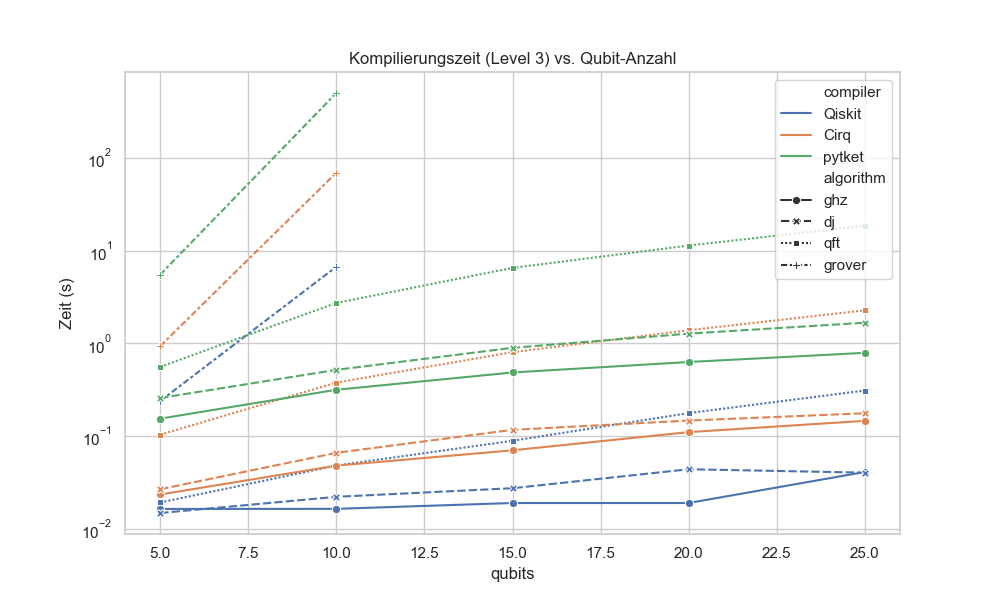
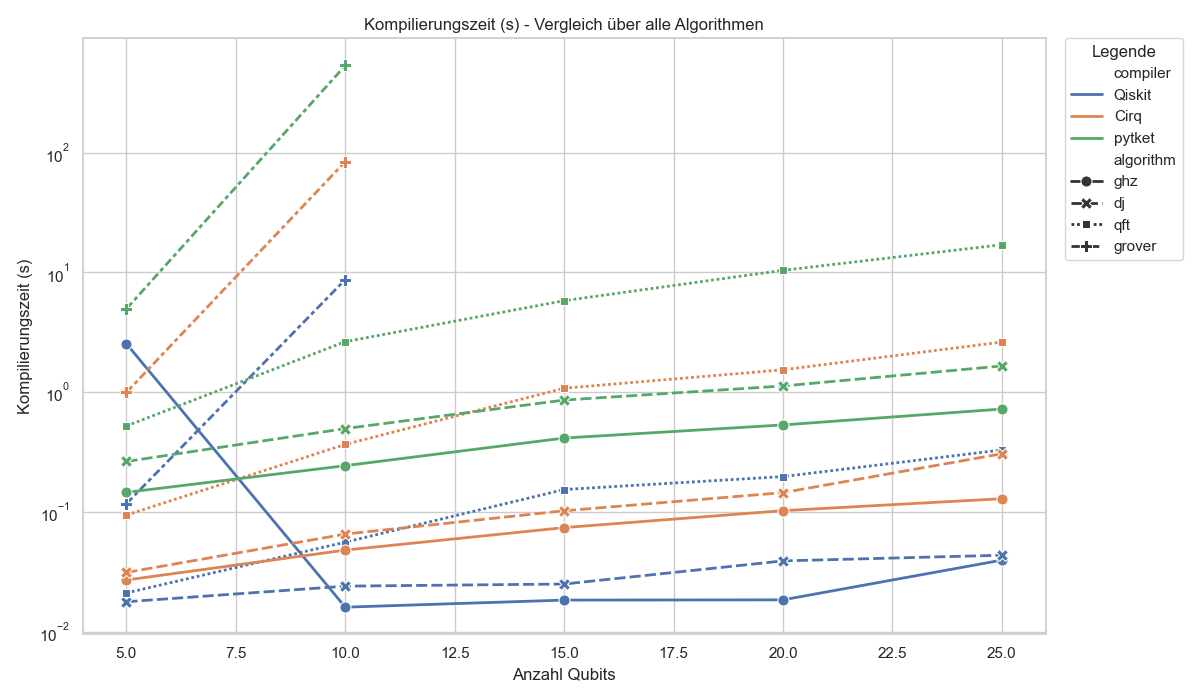
better visualisation

diff --git a/quantum_bench/visualization/plotter.py b/quantum_bench/visualization/plotter.py
@@ -4,28 +4,19 @@ import seaborn as sns
 import os
 
 def plot_results(csv_file="benchmark_results_final.csv"):
-    # Ermittle den absoluten Pfad zur CSV-Datei relativ zum Projekt-Root
-    # Annahme: Das Skript wird entweder aus dem Root oder dem visualization-Ordner ausgeführt.
-    # Wir suchen die Datei im Projekt-Root (zwei Ebenen über diesem Skript, wenn installiert, 
-    # oder im aktuellen Arbeitsverzeichnis).
-    
+    # Pfad-Logik (wie zuvor)
     if not os.path.exists(csv_file):
-        # Versuche, die Datei im Projekt-Root zu finden
-        # Pfad: .../quantum_bench/visualization/plotter.py -> .../benchmark_results_final.csv
         current_dir = os.path.dirname(os.path.abspath(__file__))
         project_root = os.path.dirname(os.path.dirname(os.path.dirname(current_dir)))
         potential_path = os.path.join(project_root, csv_file)
         
-        # Alternative: Wenn wir im Projekt-Root sind, aber der Pfad nicht stimmt
         if os.path.exists(potential_path):
             csv_file = potential_path
         else:
-            # Fallback: Suche im aktuellen Arbeitsverzeichnis (CWD)
             cwd_path = os.path.join(os.getcwd(), csv_file)
             if os.path.exists(cwd_path):
                 csv_file = cwd_path
             else:
-                 # Hardcoded Fallback für die IDE-Umgebung des Users
                  csv_file = r"C:\Users\admin\PycharmProjects\Entwurfsautomatisierung_Quantencomputing\benchmark_results_final.csv"
 
     print(f"Lese Ergebnisse aus: {csv_file}")
@@ -33,46 +24,69 @@ def plot_results(csv_file="benchmark_results_final.csv"):
     try:
         df = pd.read_csv(csv_file)
     except FileNotFoundError:
-        print(f"Fehler: Datei '{csv_file}' nicht gefunden. Bitte führen Sie zuerst main.py aus.")
+        print(f"Fehler: Datei '{csv_file}' nicht gefunden.")
         return
 
     df = df[df["success"] == True]
-    
     if df.empty:
-        print("Warnung: Keine erfolgreichen Benchmarks in der CSV-Datei gefunden.")
+        print("Warnung: Keine Daten.")
         return
 
-    # Globales Styling
+    # Nur Opt-Level 3 betrachten für den Vergleich der besten Ergebnisse
+    df_opt = df[df["opt_level"] == 3]
+
     sns.set_theme(style="whitegrid")
     
-    # 1. Plot: Compilation Time vs Qubits (für Opt Level 3)
-    plt.figure(figsize=(10, 6))
-    subset = df[df["opt_level"] == 3]
-    if not subset.empty:
-        sns.lineplot(data=subset, x="qubits", y="compile_time", hue="compiler", style="algorithm", markers=True)
-        plt.yscale("log") # Logarithmisch, da Laufzeiten stark variieren
-        plt.title("Kompilierungszeit (Level 3) vs. Qubit-Anzahl")
-        plt.ylabel("Zeit (s)")
-        plt.savefig("plot_compile_time.png")
-        print("Plot gespeichert: plot_compile_time.png")
-    
-    # 2. Plot: Gate Count Overhead
-    # Hier wäre Normalisierung sinnvoll, wir plotten absolute Werte beispielhaft für QFT
-    plt.figure(figsize=(10, 6))
-    qft_subset = df[(df["algorithm"] == "qft") & (df["opt_level"] == 3)]
-    if not qft_subset.empty:
-        sns.barplot(data=qft_subset, x="qubits", y="gate_count", hue="compiler")
-        plt.title("Gatter-Anzahl nach Kompilierung (QFT, Level 3)")
-        plt.ylabel("Anzahl Gatter")
-        plt.savefig("plot_gate_count_qft.png")
-        print("Plot gespeichert: plot_gate_count_qft.png")
-    
-    # 3. Plot: Tiefe (Depth) Vergleich
-    plt.figure(figsize=(10, 6))
-    sns.boxplot(data=df, x="compiler", y="depth", hue="opt_level")
-    plt.title("Verteilung der Schaltkreistiefe über alle Algorithmen")
-    plt.savefig("plot_depth_distribution.png")
-    print("Plot gespeichert: plot_depth_distribution.png")
+    # Metriken, die wir plotten wollen
+    metrics = {
+        "compile_time": "Kompilierungszeit (s)",
+        "gate_count": "Gesamt-Gatteranzahl",
+        "depth": "Schaltkreistiefe",
+        "2q_gates": "Anzahl 2-Qubit Gatter (CX/CZ)",
+        "swap_gates": "Anzahl SWAP Gatter"
+    }
+
+    # Algorithmen, die wir plotten wollen
+    algorithms = df_opt["algorithm"].unique()
+
+    for algo in algorithms:
+        algo_subset = df_opt[df_opt["algorithm"] == algo]
+
+        for metric, label in metrics.items():
+            # Prüfen, ob die Metrik überhaupt im DF existiert (z.B. swap_gates neu)
+            if metric not in df.columns:
+                continue
+
+            plt.figure(figsize=(10, 6))
+
+            # Lineplot eignet sich gut für Skalierung über Qubits
+            # Wir nutzen Marker, um die Datenpunkte deutlich zu machen
+            sns.lineplot(
+                data=algo_subset,
+                x="qubits",
+                y=metric,
+                hue="compiler",
+                style="compiler",
+                markers=True,
+                dashes=False,
+                linewidth=2.5,
+                markersize=8
+            )
+
+            # Log-Skala für Zeit oft sinnvoll, für Gatter linear besser lesbar (außer bei exp. Wachstum)
+            if metric == "compile_time":
+                plt.yscale("log")
+
+            plt.title(f"{label} vs. Qubit-Anzahl ({algo.upper()})")
+            plt.xlabel("Anzahl Qubits")
+            plt.ylabel(label)
+            plt.legend(title="Compiler")
+            
+            # Dateiname generieren
+            filename = f"plot_{algo}_{metric}.png"
+            plt.savefig(filename)
+            plt.close() # Speicher freigeben
+            print(f"Erstellt: {filename}")
 
 if __name__ == "__main__":
     plot_results()

diff --git a/quantum_bench/compilers/cirq_adapter.py b/quantum_bench/compilers/cirq_adapter.py
@@ -104,10 +104,20 @@ class CirqAdapter(CompilerAdapter):
         depth = len(routed_circuit) 
 
         two_q_count = sum(1 for op in routed_circuit.all_operations() if len(op.qubits) == 2)
+        
+        # SWAP Gatter zählen (Cirq nutzt oft SWAP oder zerlegt sie)
+        # Wir suchen nach Operationen, die 'SWAP' im Namen haben oder Instanzen von SwapPowGate sind
+        swap_count = 0
+        for op in routed_circuit.all_operations():
+            if isinstance(op.gate, cirq.SwapPowGate) and op.gate.exponent == 1.0:
+                swap_count += 1
+            # Manche Router zerlegen SWAP in 3 CNOTs/CZs, das ist schwerer zu tracken ohne Circuit-Analyse.
+            # RouteCQC fügt explizite SWAPs ein, wenn möglich.
 
         return {
             "gate_count": gate_count,
             "depth": depth,
             "compile_time": duration,
-            "2q_gates": two_q_count
+            "2q_gates": two_q_count,
+            "swap_gates": swap_count
         }

diff --git a/quantum_bench/compilers/pytket_adapter.py b/quantum_bench/compilers/pytket_adapter.py
@@ -45,6 +45,9 @@ class PytketAdapter(CompilerAdapter):
         # Mapping durchführen
         self.mapping_manager.route_circuit(circuit, [label_method, route_method])
         
+        # SWAP Count VOR der Zerlegung in CX messen
+        swap_count = circuit.n_gates_of_type(OpType.SWAP)
+        
         # Phase 3: Post-Optimierung und Rebase
         # Wir müssen SWAPs in native CX zerlegen
         DecomposeSwapsToCXs(self.architecture).apply(circuit)
@@ -59,5 +62,6 @@ class PytketAdapter(CompilerAdapter):
             "gate_count": circuit.n_gates,
             "depth": circuit.depth(),
             "compile_time": duration,
-            "2q_gates": circuit.n_gates_of_type(OpType.CX)
+            "2q_gates": circuit.n_gates_of_type(OpType.CX),
+            "swap_gates": swap_count
         }

diff --git a/main.py b/main.py
@@ -38,7 +38,7 @@ def run_benchmark():
             for compiler in compilers:
                 # Wir testen nur Opt-Level 0 (Baseline) und 3 (Max) für die These
                 # um die Laufzeit in Grenzen zu halten.
-                for opt_level in [0, 3]:
+                for opt_level in [3]:
                     row = {
                         "algorithm": algo,
                         "qubits": n_qubits,

diff --git a/quantum_bench/compilers/qiskit_adapter.py b/quantum_bench/compilers/qiskit_adapter.py
@@ -61,5 +61,6 @@ class QiskitAdapter(CompilerAdapter):
             "gate_count": gate_count,
             "depth": depth,
             "compile_time": duration,
-            "2q_gates": ops.get('cx', 0)
+            "2q_gates": ops.get('cx', 0),
+            "swap_gates": ops.get('swap', 0) # SWAP Gatter zählen
         }
